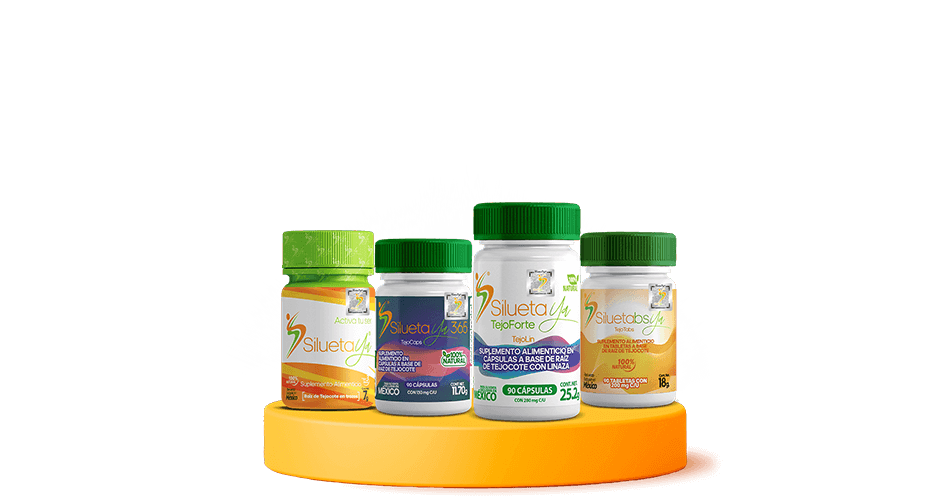
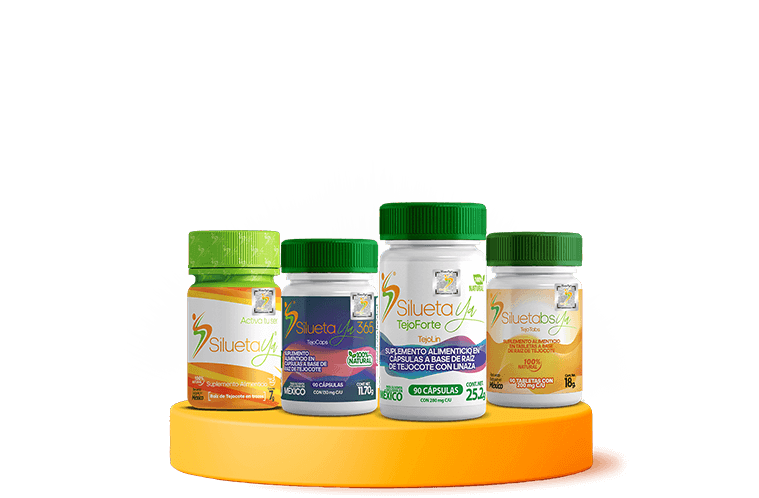
Ultimos cambios para correcion de safari

Changed region(s): [[0.2121, 0.3916, 0.8182, 0.994]]

diff --git a/index.html b/index.html
@@ -72,49 +72,52 @@
             </button>
             <div class="collapse navbar-collapse" id="navbarNav">
                 <ul class="navbar-nav  ms-auto mb-2 mb-lg-0" style="margin-right: 5%;">
-                    <li class="nav-item">
-                        <a class="nav-link" aria-current="page" href="./html/ConocenosYa.html" onclick="cerrarNavbar()">ConócenosYa!</a>
-                    </li>
+                    <div class="subdiv-navbar">
+                        <li class="nav-item">
+                            <a class="nav-link" aria-current="page" href="./html/ConocenosYa.html" onclick="cerrarNavbar()">ConócenosYa!</a>
+                        </li>
 
-                    <li class="nav-item">
-                        <a class="nav-link" href="./html/compraYa.html" onclick="cerrarNavbar()">CompraYa!</a>
-                    </li>
+                        <li class="nav-item">
+                            <a class="nav-link" href="./html/compraYa.html" onclick="cerrarNavbar()">CompraYa!</a>
+                        </li>
 
-                    <li class="nav-item">
-                        <a class="nav-link" href="./html/vendeYa.html" onclick="cerrarNavbar()">VendeYa!</a>
-                    </li>
+                        <li class="nav-item">
+                            <a class="nav-link" href="./html/vendeYa.html" onclick="cerrarNavbar()">VendeYa!</a>
+                        </li>
 
-                    <li class="nav-item">
-                        <a class="nav-link" href="./html/app.html" onclick="cerrarNavbar()">App</a>
-                    </li>
+                        <li class="nav-item">
+                            <a class="nav-link" href="./html/app.html" onclick="cerrarNavbar()">App</a>
+                        </li>
 
-                    <li class="nav-item">
-                        <a class="nav-link" href="./html/blogYa.html" onclick="cerrarNavbar()">BlogYa!</a>
-                    </li>
+                        <li class="nav-item">
+                            <a class="nav-link" href="./html/blogYa.html" onclick="cerrarNavbar()">BlogYa!</a>
+                        </li>
 
-                    <li class="nav-item">
-                        <a class="nav-link" href="./html/contactaYa.html" onclick="cerrarNavbar()">ContactaYa!</a>
-                    </li>
+                        <li class="nav-item">
+                            <a class="nav-link" href="./html/contactaYa.html" onclick="cerrarNavbar()">ContactaYa!</a>
+                        </li>
 
-                    <li class="nav-item">
-                        <a class="nav-link" href="./html/KidzYa.html" onclick="cerrarNavbar()">KidzYa!</a>
-                    </li>
+                        <li class="nav-item">
+                            <a class="nav-link" href="./html/KidzYa.html" onclick="cerrarNavbar()">KidzYa!</a>
+                        </li>
 
-                    <li class="nav-item">
-                        <a class="nav-link" href="./html/andyya.html" onclick="cerrarNavbar()">Andyya!</a>
-                    </li>
+                        <li class="nav-item">
+                            <a class="nav-link" href="./html/andyya.html" onclick="cerrarNavbar()">Andyya!</a>
+                        </li>
 
-                    <li class="nav-item" style="margin-right: 2%; margin-top: 5px;">
-                        <a class="nav-link" href="#" style="padding: 0;" onclick="cerrarNavbar()">
-                            <img loading="lazy" src="./images/Icono-Carrito.png" style="width: 25px; " alt="" srcset="">
-                        </a>
-                    </li>
+                        <li class="nav-item" style="margin-right: 2%; margin-top: 5px;">
+                            <a class="nav-link" href="#" style="padding: 0;" onclick="cerrarNavbar()">
+                                <img loading="lazy" src="./images/Icono-Carrito.png" style="width: 25px;" alt="" srcset="">
+                            </a>
+                        </li>
 
-                    <li class="nav-item" style="margin-top: 5px;" type="button">
-                        <a class="nav-link" style="padding: 0;" onclick="cerrarNavbar()">
-                            <img loading="lazy" src="./images/Icono-Lupa.png" style="width: 25px;" alt="" srcset="" id="btnAbrir">
-                        </a>
-                    </li>
+                        <li class="nav-item" style="margin-top: 5px;" type="button">
+                            <a class="nav-link" style="padding: 0;" onclick="cerrarNavbar()">
+                                <img loading="lazy" src="./images/Icono-Lupa.png" style="width: 25px;" alt="" srcset="" id="btnAbrir">
+
+                            </a>
+                        </li>
+                    </div>
 
                     <li class="nav-item" style="margin-left: 2%;">
                         <button style="margin-top: 2%; border: none; width: 150px; height: 38px; background-color: rgb(255, 106, 0); color: #fff; font-weight: bold;" onclick="cerrarNavbar()">
@@ -244,10 +247,10 @@
                 </li>
             </ul>
 
-            <nav class="slides-navigation">
+            <!--             <nav class="slides-navigation">
                 <a href="#" class="next">Next</a>
                 <a href="#" class="prev">Previous</a>
-            </nav> -
+            </nav>  -->
 
         </div>
     </article>

diff --git a/estilos/compraYa.css b/estilos/compraYa.css
@@ -535,19 +535,19 @@ nav.navbar {
 }
 
 .div-paquete-Activa .div-izquierdo {
-    position: absolute;
-    margin-right: 39%;
+    margin-left: 8.5%;
 }
 
 .div-paquete-Activa .div-izquierdo p {
-    position: absolute;
-    margin-top: -60%;
-    margin-left: -20%;
     font-family: "adieue";
     font-size: 25px;
     text-align: center;
     color: #fff;
     font-weight: bold;
+}
+
+.div-paquete-Activa .div-izquierdo img {
+    margin-left: 20%;
 }
 
 .div-paquete-Activa .div-central {
@@ -568,7 +568,7 @@ nav.navbar {
 }
 
 .div-paquete-Activa .div-text-responsivo {
-    width: 90%;
+    width: 95%;
     margin-top: 5%;
     text-align: center;
     display: none;
@@ -582,18 +582,14 @@ nav.navbar {
 }
 
 .div-paquete-Activa .div-text-responsivo p {
-    width: 100%;
     font-family: "adieue";
     font-size: 20px;
     color: #fff;
-    text-align: center;
-    text-shadow: 0 0 20px #ff6b00, 0 0 30px #ff6b00, 0 0 40px #ff6b00, 0 0 55px #ff6b00;
+    text-shadow: 1px 1px 20px #ff6b00;
 }
 
 .div-paquete-Activa .div-derecho {
     margin-top: 5%;
-    position: absolute;
-    margin-left: 50%;
 }
 
 .div-paquete-Activa .div-derecho p {
@@ -602,28 +598,15 @@ nav.navbar {
     font-size: 18px;
     color: #fff;
     font-weight: bold;
-    color: #FFFFFF;
-    text-shadow: 0 0 20px #ff6b00, 0 0 30px #ff6b00, 0 0 40px #ff6b00, 0 0 55px #ff6b00;
-}
-
-@media (max-width: 1190px) {
-    .div-paquete-Activa .div-derecho {
-        margin-left: 57%;
-    }
-    .div-paquete-Activa .div-izquierdo {
-        margin-right: 46%;
-    }
+    text-shadow: 1px 1px 20px #ff6b00;
 }
 
 @media (max-width: 890px) {
-    .div-paquete-Activa .div-derecho {
-        margin-left: 65%;
-    }
     .div-paquete-Activa .div-derecho p {
         font-size: 17px;
     }
-    .div-paquete-Activa .div-izquierdo {
-        margin-right: 47%;
+    .div-paquete-Activa .div-izquierdo img {
+        height: 100px;
     }
     .div-paquete-Activa .div-izquierdo p {
         font-size: 24px;

diff --git a/estilos/superslides.css b/estilos/superslides.css
@@ -474,15 +474,13 @@
 
 #slides .slides-container .div-raizes {
     display: flex;
-    justify-content: center;
+    justify-content: space-evenly;
     align-items: center;
 }
 
 #slides .slides-container .div-raizes .imagen-productos {
-    position: absolute;
     width: 85vw;
     margin-bottom: 13%;
-    margin-right: 35%;
 }
 
 #slides .slides-container .div-raizes .imagen-productos-movil {
@@ -490,10 +488,7 @@
 }
 
 #slides .slides-container .div-raizes .imagen-titulo {
-    position: absolute;
     width: 30vw;
-    margin-top: 5%;
-    margin-left: 50%;
 }
 
 @media (max-width: 991px) {
@@ -536,8 +531,8 @@
         width: 60vw;
         margin-left: 0;
         margin-bottom: 0;
-        margin-top: 12%;
-        margin-bottom: 5%;
+        margin-top: 20%;
+        margin-bottom: 1%;
     }
 }
 

diff --git a/estilos/inicio.css b/estilos/inicio.css
@@ -110,6 +110,18 @@ nav.navbar {
     font-size: 17px;
 }
 
+.navbar .container-fluid .collapse .navbar-nav .subdiv-navbar {
+    display: flex;
+    margin-right: 3%;
+}
+
+@media (max-width: 991px) {
+    .navbar .container-fluid .collapse .navbar-nav .subdiv-navbar {
+        display: block;
+        margin-right: 0;
+    }
+}
+
 .boton-explorar {
     margin-top: 4%;
     text-decoration: none;
